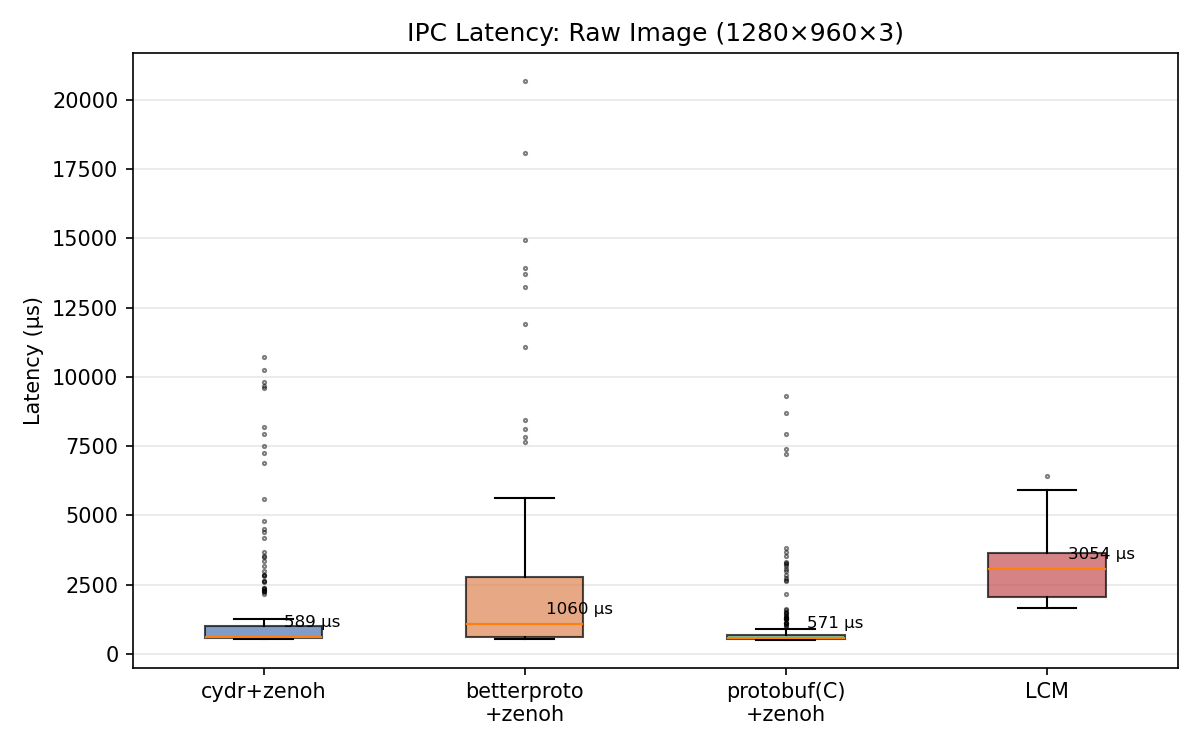
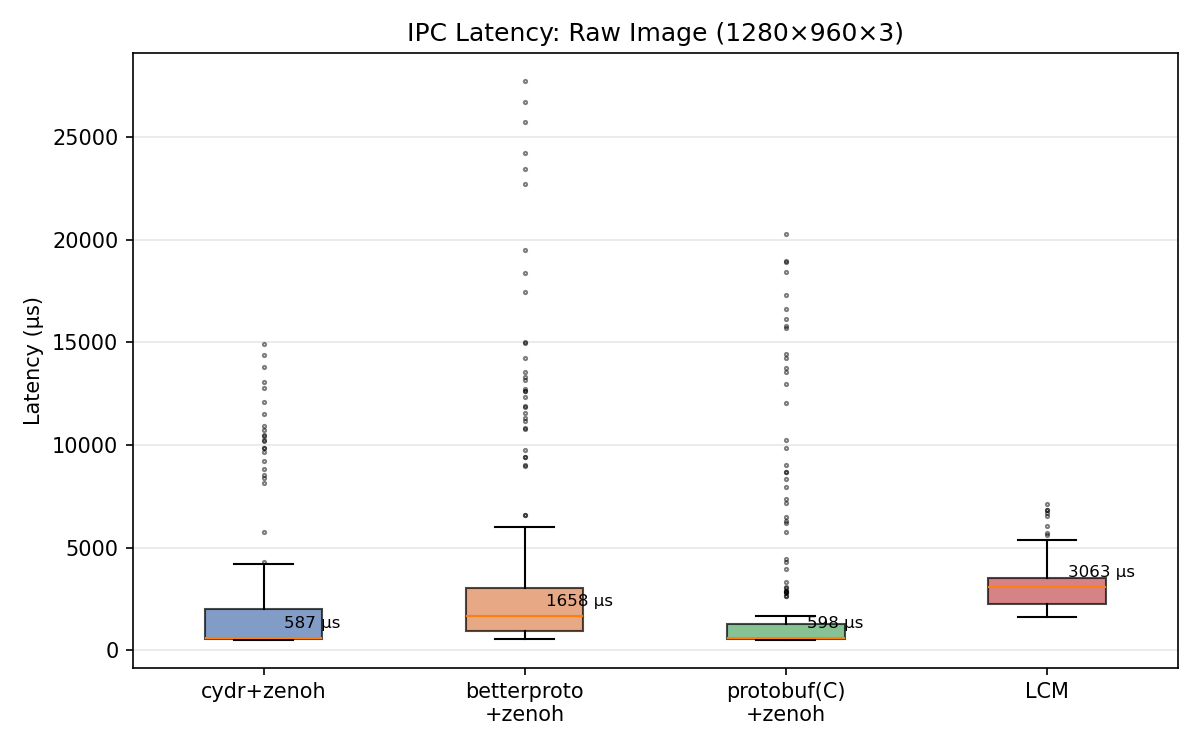
update all results, plots, and README with lcm-gen numbers

diff --git a/README.md b/README.md
@@ -9,7 +9,7 @@ Benchmarks comparing serialization performance and IPC latency for robotics mess
 - `ros2_pyterfaces` cydr backend (CDR via cydr/msgspec)
 - [betterproto](https://github.com/danielgtaylor/python-betterproto) (pure Python protobuf)
 - Google [protobuf](https://protobuf.dev/) with C/upb backend
-- [LCM](https://github.com/lcm-proj/lcm) (struct-based encode/decode)
+- [LCM](https://github.com/lcm-proj/lcm) (types generated via `lcm-gen`)
 - Message types: `Image` (1280×960×3 raw), `CompressedImage` (JPEG), `JointState` (16 joints)
 - Roundtrip correctness verified for all backends
 
@@ -35,6 +35,16 @@ For LCM large-message benchmarks, increase the kernel UDP buffer:
 sudo sysctl -w net.core.rmem_max=20971520 net.core.rmem_default=20971520
 ```
 
+LCM types are generated from `bench_msgs.lcm` via:
+```bash
+pixi run lcm-gen -p bench_msgs.lcm
+```
+
+Protobuf types are generated from `bench_msgs.proto` via:
+```bash
+pixi run protoc --python_out=. bench_msgs.proto
+```
+
 ## Run
 
 ```bash
@@ -53,37 +63,37 @@ pixi run python bench_ipc.py
 
 | | Cyclone | cydr | betterproto | protobuf(C) | LCM |
 |---|---|---|---|---|---|
-| serialize | 131,000 | 554 | 526 | 513 | 501 |
-| deserialize | 56,000 | 213 | 439 | 200 | 206 |
+| serialize | 128,665 | 575 | 569 | 561 | 551 |
+| deserialize | 56,685 | 243 | 503 | 237 | 235 |
 
 **CompressedImage (JPEG, ~1.1 MB):**
 
 | | Cyclone | cydr | betterproto | protobuf(C) | LCM |
 |---|---|---|---|---|---|
-| serialize | 20,780 | 69 | 126 | 115 | ~500 |
-| deserialize | 8,540 | 53 | 137 | 48 | ~200 |
+| serialize | 20,645 | 75 | 131 | 117 | 131 |
+| deserialize | 8,514 | 54 | 139 | 47 | 49 |
 
 **JointState (16 joints):**
 
 | | Cyclone | cydr | betterproto | protobuf(C) | LCM |
 |---|---|---|---|---|---|
-| serialize | 42 | 4.3 | 65 | 0.6 | 7.7 |
-| deserialize | 39 | 6.3 | 82 | 1.1 | 7.7 |
+| serialize | 42 | 2.7 | 106 | 0.6 | 7.8 |
+| deserialize | 38 | 4.5 | 84 | 1.1 | 9.3 |
 
 ### Payload sizes (bytes)
 
 | Message | CDR | Protobuf | LCM |
 |---|---|---|---|
 | raw Image | 3,686,448 | 3,686,420 | 3,686,433 |
-| CompressedImage (JPEG) | 1,101,772 | 1,101,746 | 1,101,757 |
+| CompressedImage (JPEG) | 1,102,384 | 1,102,358 | 1,102,369 |
 | JointState (16 joints) | 644 | 543 | 594 |
 
 ### IPC median latency (µs)
 
 | Message | cydr+zenoh | betterproto+zenoh | protobuf(C)+zenoh | LCM |
 |---|---|---|---|---|
-| Image (3.7 MB) | 602 | 2,101 | 584 | 2,852 |
-| JointState (644 B) | 10.7 | 10.6 | 8.0 | 19.4 |
+| Image (3.7 MB) | 587 | 1,658 | 598 | 3,063 |
+| JointState (644 B) | 10.5 | 11.1 | 10.2 | 20.2 |
 
 ### IPC latency box plots
 
